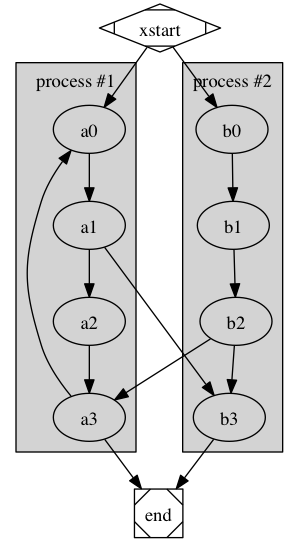
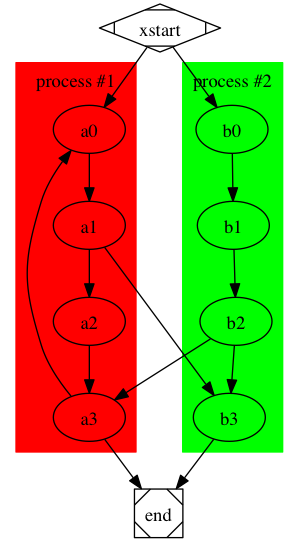
Made container specific default link,node,group color and setDefault link,node,group Color is not attributed setDefault

diff --git a/model/model.js b/model/model.js
@@ -114,11 +114,41 @@ function getNode(yy, name) {
     if (search != undefined) return search;
     debug(" Create new node");
     var n = new Node(name, getGraphRoot(yy).getCurrentShape());
-    var nc=getGraphRoot(yy).getDefaultNodeColor();
-    if (nc!==undefined) n.setColor(nc);
+    
+    getDefaultAttribute(yy,'nodecolor',function(color){
+    	n.setColor(color);
+    });
     return pushObject(yy, n);
 }
-
+/** 
+ * Get default attribute nodecolor,linkcolor,groupcolor
+ * and bubble upwards if otherwise 'unobtainable'
+ */
+function getDefaultAttribute(yy,attrname,x){
+  //no need for the value, but runs init if missing
+  getGraphRoot(yy);
+  debug("getDefaultAttribute "+attrname);
+  for(var i in yy.CURRENTCONTAINER){
+  	  var ctr=yy.CURRENTCONTAINER[i];
+  	  var a=ctr.getDefault(attrname);
+  	  debug("  traverse getDefaultAttribute "+attrname+" from "+ctr+" as "+a);
+  	  if (a!==undefined){
+  	  	  debug("getDefaultAttribute "+attrname+" from "+ctr+"=("+a+")");
+  	  	  if (x!==undefined)
+  	  	    x(a);
+  	  	  return a;
+  	  }
+  }
+  var a=getGraphRoot(yy).getDefault(attrname);
+  if (a!==undefined){
+  debug("getDefaultAttribute got from graphroot");
+	  if (x!==undefined)
+		x(a);
+	  return a;
+  }
+  debug("getDefaultAttribute FAILED");
+  return undefined;
+}
 function getCurrentContainer(yy) {
 	//no need for value, but runs init if missing
 	getGraphRoot(yy);
@@ -151,8 +181,10 @@ function getGroup(yy, ref) {
     var newGroup = new Group(yy.GROUPIDS++);
     debug(" push group " + newGroup + " to " + yy);
     pushObject(yy, newGroup);
-    var gc=getGraphRoot(yy).getDefaultGroupColor();
-    if (gc!==undefined) newGroup.setColor(gc);
+    
+    getDefaultAttribute(yy,'groupcolor',function(color){
+    	newGroup.setColor(color);
+    });
     return newGroup;
 }
 //Get a link such that l links to r, return the added LINK or LINKS
@@ -190,8 +222,9 @@ function getLink(yy, linkType, l, r, label, color) {
         throw new Error("RHS not a Node nor a Group(" + r + ")");
     }
     var l = new Link(linkType, l, r);
-    var lc=getGraphRoot(yy).getDefaultLinkColor();
-    if (lc!==undefined) l.setColor(lc);
+    getDefaultAttribute(yy,'linkcolor',function(color){
+    	l.setColor(color);
+    });
     if (label != undefined) l.setLabel(label);
     if (color != undefined) l.setColor(color);
     return addLink(yy, l);
@@ -299,6 +332,18 @@ function Group(name) {
     this.getEqual = function() {
         return getAttr(this, 'equal');
     }
+    /**
+     * Set default nodecolor, groupcolor, linkcolor
+     * Always ask from the currentContainer first
+     */
+    this.setDefault = function(key,value) {
+    	debug("Set group "+key+ " to "+value);
+        return setAttr(this, key, value);
+    };
+    this.getDefault = function(key) {
+    	debug("Get group "+key);
+        return getAttr(this, key);
+    };
     this.toString = function() {
         return "Group(" + this.name + ")";
     };
@@ -345,23 +390,17 @@ function GraphRoot() {
     this.getEqual = function() {
         return getAttr(this, 'equal');
     };
-    this.setDefaultNodeColor = function(value) {
-        return setAttr(this, 'nodecolor', value);
+    /**
+     * Set default nodecolor, groupcolor, linkcolor
+     * Always ask from the currentContainer first
+     */
+    this.setDefault = function(key,value) {
+    	debug("Set ROOT "+key+ " to "+value);
+        return setAttr(this,  key,value);
     };
-    this.getDefaultNodeColor = function() {
-        return getAttr(this, 'nodecolor');
-    };
-    this.setDefaultGroupColor = function(value) {2
-        return setAttr(this, 'groupcolor', value);
-    };
-    this.getDefaultGroupColor = function() {
-        return getAttr(this, 'groupcolor');
-    };
-    this.setDefaultLinkColor = function(value) {2
-        return setAttr(this, 'linkcolor', value);
-    };
-    this.getDefaultLinkColor = function() {
-        return getAttr(this, 'linkcolor');
+    this.getDefault = function(key) {
+    	debug("Get ROOT "+key);
+        return getAttr(this, key);
     };
     this.toString = function() {
         return "GraphRoot";

diff --git a/generators/digraph.js b/generators/digraph.js
@@ -10,6 +10,18 @@ function digraph(yy) {
     	    }
     	    return prefix+msg;
     }
+	var processANode = function(o) {
+        var s = getAttrFmt(o, 'color', ',fillcolor="{0}",style="filled"') +
+            getAttrFmt(o, 'image', ',image="icons{0}"') +
+            getShape(shapes.digraph, o.shape, ',shape="{0}"') +
+            getAttrFmt(o, 'style', ',style={0}') +
+        /*getAttrFmt(o,'shape',',shape="{0}"')+*/
+        getAttrFmt(o, 'label', ',label="{0}"');
+        if (s.trim() != "")
+            s = "[" + s.trim().substring(1) + "]";
+        yy.result(indent( o.getName() + s + ';'));
+    };
+    
     var r = getGraphRoot(yy);
     if (r.getVisualizer()) {
         yy.result("/* render:" + r.getVisualizer() + "*/")
@@ -22,11 +34,15 @@ function digraph(yy) {
     } else {
         yy.result(indent("rankdir=TD;"));
     }
+    //This may FORWARD DECLARE a node...which creates problems with coloring
     var s = r.getStart();
     if (s != undefined && s != "") {
+    	var fwd=getNode(yy,s);
+    	processANode(fwd);
         //    {$$="  {rank = same;null}\n  {rank = same; "+$2+"}\n  null [shape=plaintext, label=\"\"];\n"+$2+"[shape=doublecircle];\nnull->"+$2+";\n";}
         yy.result(indent("//startnode setup\n  {rank = same;null} {rank = same; " + s + "}\n  null [shape=plaintext, label=\"\"];\n  " + s + "[shape=doublecircle];\n  null->" + s + ";\n"));
     }
+    //This may FORWARD DECLARE a node...which creates problems with coloring
     if (r.getEqual() != undefined && r.getEqual().length > 0) {
         yy.result(indent("{rank=same;"));
         for (var x = 0; x < r.getEqual().length; x++) {
@@ -47,18 +63,6 @@ function digraph(yy) {
             }
         }
     }(r.OBJECTS);
-
-    var processANode = function(o) {
-        var s = getAttrFmt(o, 'color', ',fillcolor="{0}",style="filled"') +
-            getAttrFmt(o, 'image', ',image="icons{0}"') +
-            getShape(shapes.digraph, o.shape, ',shape="{0}"') +
-            getAttrFmt(o, 'style', ',style={0}') +
-        /*getAttrFmt(o,'shape',',shape="{0}"')+*/
-        getAttrFmt(o, 'label', ',label="{0}"');
-        if (s.trim() != "")
-            s = "[" + s.trim().substring(1) + "]";
-        yy.result(indent( o.getName() + s + ';'));
-    };
 
 
     var traverseObjects = function traverseObjects(r) {

diff --git a/generators/blockdiag.js b/generators/blockdiag.js
@@ -24,7 +24,7 @@ function blockdiag(yy) {
             yy.result('  group "' + o.getLabel() + '"{');
             yy.result(getAttrFmt(o, 'color', '   color="{0}"'));
             yy.result(getAttrFmt(o, 'label', '   label="{0}"'));
-            if (s.trim() != "")
+            if (s!==undefined && s.trim() != "")
                 s = "[" + s.trim().substring(1) + "]";
             for (var j in o.OBJECTS) {
                 var z = o.OBJECTS[j];

diff --git a/model/support.js b/model/support.js
@@ -16,7 +16,7 @@ String.prototype.format = function() {
 };
 /* return attribute like prefix="ATTRHERE" with padding at both sides or "" if 0 or undefined */
 function getAttr(cl, attr) {
-    if (cl[attr] == undefined || cl[attr] == 0) return "";
+    if (cl[attr] === undefined || cl[attr] == 0) return undefined;;
     return cl[attr];
 }
 
